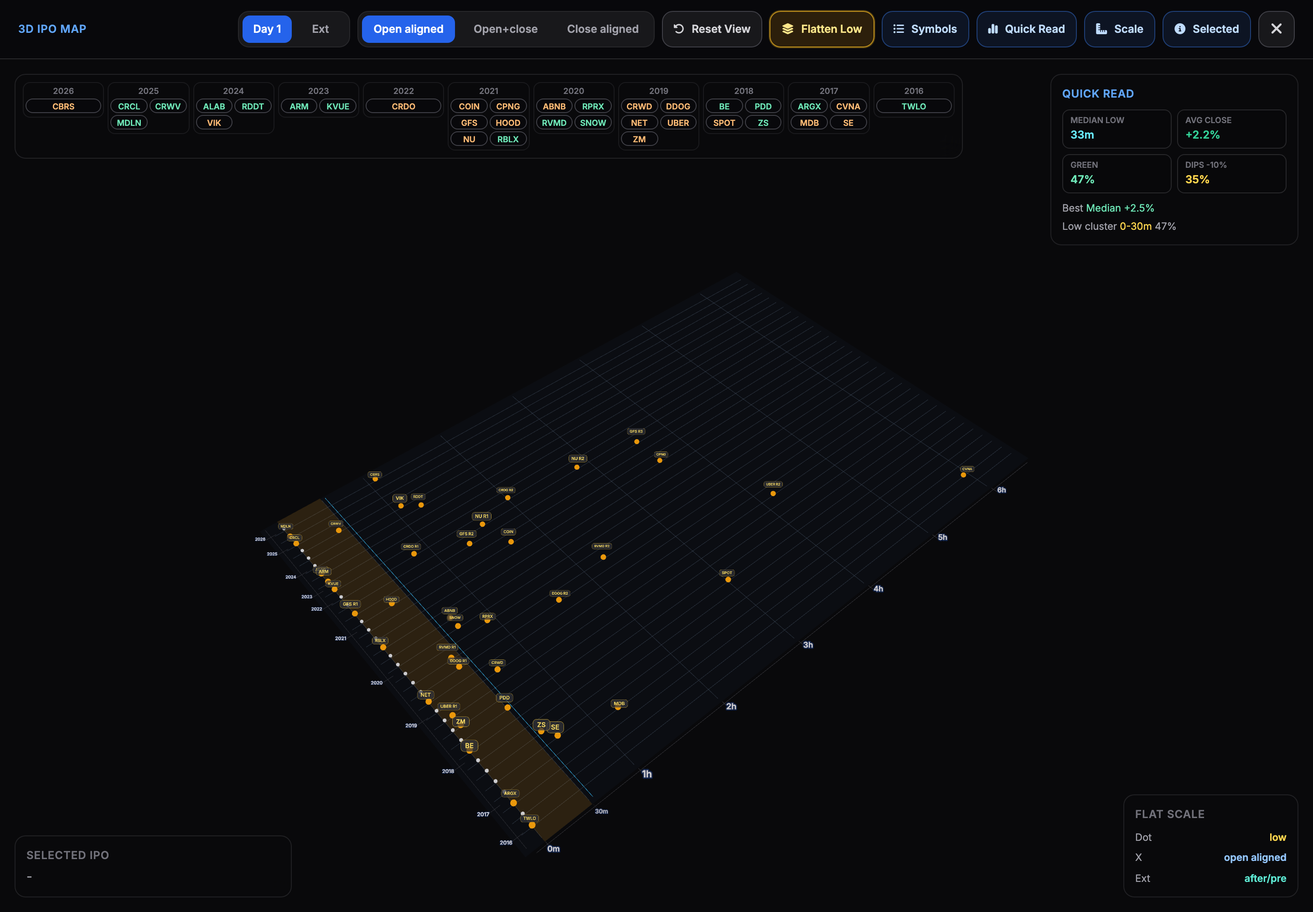
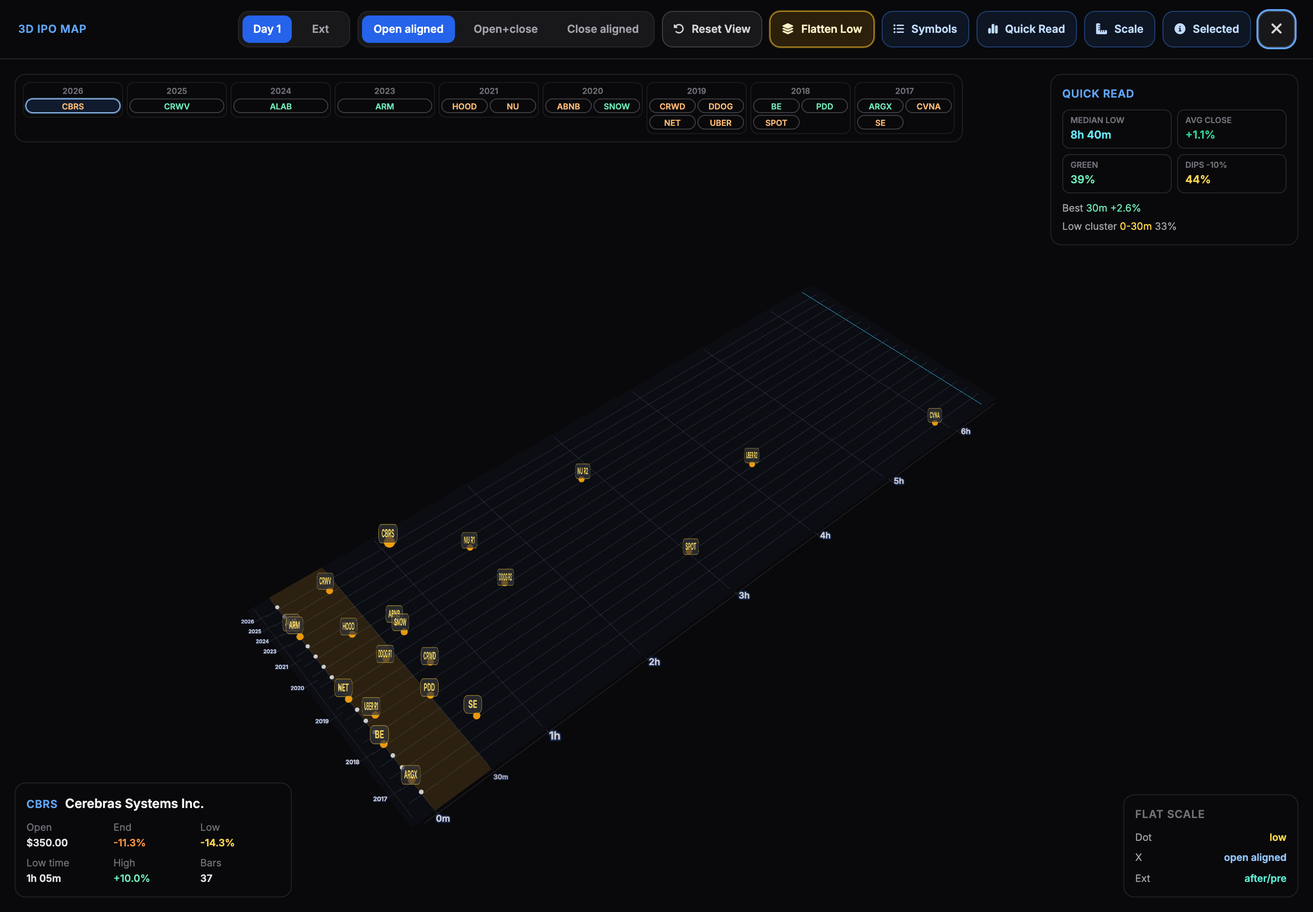
Update IPO docs and screenshots

diff --git a/AGENTS.md b/AGENTS.md
@@ -17,28 +17,28 @@ Path placeholders in this file are intentional. Substitute them with the matchin
 - Candlestick charts are inline SVG generated in browser JavaScript.
 - The 3D IPO map is a separate browser ES module in `three-ipo-view.js` and imports local Three.js from `vendor/three.module.min.js`. Keep `vendor/three.LICENSE.txt` with that module. Do not replace this with a remote charting or Three.js CDN unless explicitly requested.
 - The top analysis panel is an inline SVG/HTML decision dashboard generated in browser JavaScript from precomputed cap-filtered data in `ipo-analysis.js`.
-- The visible analysis UI starts with a buyer-window summary, key metrics, and a full-width elapsed-time opportunity map; below that it shows two larger distribution charts followed by a full-width `Decision odds` panel, then an entry-scenario comparison for buying at the open, active median timing, 30 minutes, 60 minutes, 2 hours, after-hours end, second-day premarket, and second-day open. The lower metric row includes median/common clock pills plus entry-scenario insight pills such as best day-end, safest entry, closest-to-low, and best extended entry. Do not re-add the removed `Timing signals` panel, checkpoint highlight pill, duplicate `median clock` block in the `Decision odds` header, or a trailing "not a buy signal" note unless explicitly requested.
+- The visible analysis UI starts with a buyer-window summary, decision-oriented KPI cards (`Sample`, `Typical low time`, `Buy bias`, and `Entry plan`), and a full-width elapsed-time opportunity map; below that it shows two larger distribution charts, a `Buy-plan questions` section, then an entry-scenario comparison table. The buy-plan section answers D1/D2 bias, staged buy count, allocation percentages, day-trade/swing suitability, open-chase suitability, dry-powder share, and best single fill. Do not re-add the removed `Timing signals` panel, old `Decision odds` panel, checkpoint highlight pill, duplicate `median clock` block, lower summary-pill row, or a trailing "not a buy signal" note unless explicitly requested.
 - A compact infographic strip above the search row shows the IPO playbook and IPO buy-timing guides as small thumbnails. Both thumbnails open the full-size image modal when clicked.
 - The header `Forthcoming IPOs` button opens a modal IPO-list of known upcoming listings from the StockAnalysis IPO calendar. This list is info-only and must stay excluded from timing samples, odds, charts, card filtering, and generated analysis. It shows the next 12 months of dated listings with date, symbol, company, exchange, price range, shares, deal, market cap, and revenue, plus `All` and active-cap-filter views.
 - The 3D map is opened from the analysis dashboard `3D Map` button. It supports Day 1 and Ext modes, open aligned / open+close / close aligned scaling, Reset View, Flatten Low, and hideable Symbols, Quick Read, Scale, and Selected panels. Automatic rotation is intentionally disabled.
 - The 3D symbol selector is a hideable year-clustered top strip, newest IPO years on the left and oldest on the right. Each year uses two symbol columns when needed, but a single-symbol year should use one visual row. Symbol text color matches the line's up/down tone and does not use a separate bullet.
 - In regular 3D path view, clicking a symbol pill selects it and overlays full candle bodies/wicks for that IPO; clicking the same selected symbol again isolates it into a one-row close-aligned candle view and hides other rows; clicking it again clears the selection and restores all rows. The isolated one-row view must switch to close aligned while active, restore the previous alignment when leaving, remove empty regular-session time before the first real price, normalize the return y-axis to that one IPO, and show linear 5-minute volume bars from the real bar volume field.
 - In Flatten Low view, IPO lows are placed on a flat timing mesh with symbol labels. It should keep IPO open markers in white, show near-low markers from both regular and extended windows when real lows exist, omit fake extended markers when there is no extended-hours low, support open/open+close/close alignment without rotating the camera, show time labels plus IPO-year scale on the front, and draw the selected symbol arrow only after an explicit symbol-pill click.
-- The entry-scenario comparison is calculated in browser JavaScript from the active cap/trading-place filtered exact 5-minute bars. It reports day-end result ranges, loss-contained rates under 5% and 10%, and the opportunity gap to the perfect first-day low entry.
+- The entry-scenario comparison is calculated in browser JavaScript from the active cap/trading-place filtered exact 5-minute bars plus available extended/Day 2 bars. It reports average/min/max comparisons against End D1, median entry, absolute low, End D2, and, on card-local tables, runtime Current.
 - Analysis distribution charts include dynamic median reference lines from the currently active cap and trading-place filter.
 - Main candle charts include a top elapsed-minutes axis from first public trade, bottom NYC/German clock labels, and a blue vertical median timing reference line from the currently active analysis filter. They also show a thin gray horizontal first-public-open reference line with a plain `Open` label, plus conditional horizontal IPO-price and current-price reference lines only when those prices are inside the visible chart OHLC range.
-- Each card chart has an enlarge button that opens the current Day 1 or Ext chart in a full-screen modal.
-- The header includes a top-level `Day 1` / `Ext` switch near the market and trading-place filters that changes all chart cards between first-day-only and extended chart data. Each main candle chart also has its own top switch that can show Alpaca extended-hours candles from the first-day 16:00 ET candle through the first available regular-session open candle on the second trading day, inclusive. These switches must not change card filtering or `ipo-analysis.js`; those remain based on exact first-day regular-session bars. Extended-derived card price timeline events and entry scenarios are visible independently of the chart switch when Alpaca data is available.
-- Candle charts compress spans with no candle data instead of drawing empty time across the x-axis. Visible break markers should be plain white solid vertical lines without text labels. Bottom x-axis labels stay clock-only, use only half-hour and full-hour times, and never show calendar dates. The top axis uses first-trade elapsed time during the IPO day, resets to `0m` for after-hours, and resets again to `0m` at the start of second-day premarket. Extended trading-hour candle regions should have a subtle background shade.
+- Each card chart has an enlarge button that opens the current per-card chart mode in a full-screen modal.
+- The header includes a top-level analysis-range switch near the market and trading-place filters: `Day 1`, `Ext`, and `Day 1-Day 2`. It changes the global analysis only, not per-card chart drawings. Each main candle chart has its own top switch: `D1`, `D1 Ext`, `D1 Ext D2`, `D1 D2`, and `D2`. The default card chart mode is `D1 Ext D2`.
+- Stitched candle charts must not draw empty overnight gaps across the x-axis. Bottom x-axis labels stay clock-only, use half-hour/full-hour times where space allows, and never show calendar dates. The top axis uses first-trade elapsed time during the IPO day, resets to `0m` for after-hours, resets again at the start of second-day premarket, and resets again at D2 regular open. Extended trading-hour candle regions should have a subtle background shade.
 - Visible chart source labels are compact provider markers: `(Y)` for Yahoo, `(A)` for Alpaca, and `(AV)` for Alpha Vantage. The generated `firstDayBarSources` and `extendedDayBarSources` values keep their full provider labels.
 - IPO card company names link to their Yahoo Finance quote pages.
 - IPO card header pills show market cap and, when available, deal size. Do not render the deal pill when `dealSize` is missing or non-positive.
-- IPO cards use a price-level timeline instead of the old metric pill strip. Timeline events include `IPO`, `Start`, `Low`, `Median`, `End`, `After End`, `Pre D2`, `Open D2`, and `Current*` when available, in true event-time order. `After End` is the last first-day after-hours close, `Pre D2` is the first second-trading-day premarket open, and `Open D2` is the first regular-session opening print on the second trading day. Do not re-add `Market cap` or `Deal size` to the price row because those values belong in the header pills.
-- IPO cards include five micro charts below the price timeline: IPO price to first-day close, first-day start price to first-day end price, first-day low to first-day end price, first-day start price to Day-two, and first-day close to current* snapshot price. First-day micro-chart paths use exact 5-minute closes. The Day-two micro chart extends the exact first-day path with generated extended-session milestones when available. Longer current* paths use sampled rough Yahoo weekly closes from `roughPriceSeries` when available, with endpoint fallback.
-- IPO cards show entry-scenario panels below the five micro charts for open, median, 30m, 60m, 2h, after-hours end, second-day premarket, and second-day open entries when available. First-day panels use `End of day`; extended-entry panels use `Vs day end` because those entries occur after the first-day close. All panels keep separate `Gap to median` and `Gap to low` lines. Omit unavailable scenario cards instead of rendering empty dash-only blocks. Do not add entry time or entry price to these controls unless explicitly requested.
+- IPO cards use a price-level timeline instead of the old metric pill strip. Timeline events include `IPO`, `Start`, `Low`, `Median`, `End`, `After End`, `Pre D2`, `Open D2`, `End D2`, and `Current` when available, in true event-time order. `After End` is the last first-day after-hours close, `Pre D2` is the first second-trading-day premarket open, `Open D2` is the first regular-session opening print on the second trading day, and `End D2` is the final available second-day regular-session close. Do not re-add `Market cap` or `Deal size` to the price row because those values belong in the header pills.
+- IPO cards include six micro charts below the price timeline: IPO to D1 close, D1 start to D1 close, D1 low to D1 close, start price to open D2, D1 close to Current, and D2 close to Current. First-day micro-chart paths use exact 5-minute closes. The Day-two micro chart extends the exact first-day path with generated extended-session and second-day milestones when available. Longer Current paths use sampled rough Yahoo weekly closes from `roughPriceSeries` when available, with endpoint fallback.
+- IPO cards show an entry-scenario table below the micro charts for open, median, 30m, 60m, after-hours end, second-day premarket, second-day open, and second-day end entries when available. The table rows are `Vs End D1`, `Gap to median`, `Gap to low`, `Vs End D2`, and card-local `Vs Current`. `Gap to low` uses the absolute low over available D1/Ext/D2 candles. The `End D2` column shows `-` in the `Vs End D2` row. Omit unavailable scenario columns instead of rendering empty dash-only blocks. Do not add entry time or entry price to these controls unless explicitly requested.
 - IPO cards do not render the generated IPO-to-current `dayChange` value. Do not re-add the top return pill or the `IPO return` metric unless explicitly requested.
 - Main candle charts can show multiple low markers. The markers must be selected from the same near-low price range and every pair of selected marker times must be at least one hour apart.
-- The market-cap and trading-place segmented filters sit in the header above the analysis panel so they control both the probability analysis and the card list. The default cap filter is `>$25B`; other cap options are `<$10B`, all (`*`), `>$10B`, and `>$50B`. The default trading-place filter is `All`; other options are `NASDAQ` and `NYSE`.
+- The market-cap and trading-place segmented filters sit in the header above the analysis panel so they control both the analysis and the card list. The default cap filter is `>$50B`; other cap options are `<$10B`, all (`*`), `>$10B`, and `>$25B`. The default trading-place filter is `All`; other options are `NASDAQ` and `NYSE`.
 - The card toolbar below the analysis keeps only search plus the Date/Cap sort toggle.
 - Do not reintroduce charting CDNs unless explicitly requested. Earlier chart-library attempts rendered blank in production.
 - The chart path only draws real first-trading-day 5-minute OHLCV bars from `chart-data.js`. Suppress cards without exact bars; do not reintroduce daily-OHLC estimates or synthetic fallback charts unless explicitly requested.
@@ -47,14 +47,17 @@ Path placeholders in this file are intentional. Substitute them with the matchin
 
 ## Data Model
 
-The page has three generated JavaScript data files:
+The page has three generated JavaScript data files plus one runtime quote cache:
 
 - `ipos` in `ipo-data.js`: one object per IPO candidate/card; the page renders only entries with exact `firstDayBars`.
 - `firstDayBars` in `chart-data.js`: optional real first-trading-day 5-minute OHLCV bars keyed by ticker.
 - `firstDayBarSources` in `chart-data.js`: per-ticker provider labels such as `Yahoo 5m bars`, `Alpaca SIP 5m bars`, or `Alpha Vantage 5m bars`.
-- `extendedDayBars` in `chart-data.js`: optional Alpaca 5-minute OHLCV bars after the first-day close through the first regular-session opening candle on the next trading day, keyed by ticker.
+- `extendedDayBars` in `chart-data.js`: optional Alpaca 5-minute OHLCV bars for first-day after-hours and next-day premarket/open handoff rows, keyed by ticker.
 - `extendedDayBarSources` in `chart-data.js`: per-ticker provider labels such as `Alpaca SIP extended 5m bars`.
+- `secondDayBars` in `chart-data.js`: optional Alpaca 5-minute OHLCV bars for the second regular trading day, keyed by ticker.
+- `secondDayBarSources` in `chart-data.js`: per-ticker provider labels such as `Alpaca SIP second-day 5m bars`.
 - `roughPriceSeries` in `chart-data.js`: optional sampled Yahoo weekly close rows keyed by ticker for rough long-range micro-chart paths.
+- `current-price-cache.json`: bundled Yahoo current-price cache used as a browser runtime seed before fresh Yahoo proxy quotes arrive.
 - `ipoAnalysis` in `ipo-analysis.js`: derived 15-year first-day low timing analysis, probability checkpoints, and timing insights precomputed for each cap and trading-place filter.
 
 IPO object fields:
@@ -65,7 +68,7 @@ IPO object fields:
 - `exchange`
 - `sector`
 - `ipoPrice` - offer price in USD
-- `current` - latest quote price refreshed from Yahoo Finance chart metadata when available; StockAnalysis price remains the fallback. Visible UI labels this as `Current*` because the static page shows a snapshot, not a live quote.
+- `current` - latest quote price refreshed from Yahoo Finance chart metadata when available; StockAnalysis price remains the fallback. Browser JavaScript refreshes this again at runtime through the Yahoo proxy and labels it as `Current`.
 - `currentAsOf`, `currentSource`, `currentCurrency` - quote provenance for `current`
 - `marketCap` - billions USD
 - `dealSize` - millions USD raised
@@ -82,6 +85,12 @@ IPO object fields:
 
 ```js
 ["2026-05-15 16:05", open, high, low, close, volume]
+```
+
+`secondDayBars` row format:
+
+```js
+["2026-05-16 09:30", open, high, low, close, volume]
 ```
 
 `roughPriceSeries` row format:
@@ -101,7 +110,7 @@ IPO object fields:
 
 ## Data Gathering Method
 
-The last full refresh was done on 2026-05-26. Alpaca extended-hours candle data was added on 2026-05-27.
+The last full refresh was done on 2026-05-31. Alpaca extended-hours and second-day candle data were added by the 2026-05-31 refresh. Runtime current-price refreshes are handled in browser JavaScript through the Yahoo proxy.
 
 Primary candidate source:
 
@@ -118,7 +127,7 @@ Per-ticker detail source:
 - `https://stockanalysis.com/stocks/<ticker>/`
 - `https://stockanalysis.com/stocks/<ticker>/company/`
 - Pull or verify market cap, IPO price/date, exchange, sector/industry, and related company fields from the StockAnalysis ticker pages when available.
-- Refresh the displayed current* snapshot price from Yahoo Finance latest chart metadata during data generation; if Yahoo is unavailable for a ticker, keep the StockAnalysis fallback value.
+- Refresh the generated current snapshot price from Yahoo Finance latest chart metadata during data generation; if Yahoo is unavailable for a ticker, keep the StockAnalysis fallback value. Browser runtime code refreshes Current again through the Yahoo proxy and caches results in `localStorage`.
 - When adding a new symbol or refreshing symbol data, update the public data snapshot date in the footer of `index.html` so the visible freshness term matches the data actually shown.
 - Fetch sampled Yahoo weekly closes for `roughPriceSeries`; these are only used for small micro-chart shape hints, not for main candle charts or low-timing analysis.
 - For `CBRS`, also checked Cerebras' own IPO pricing release:
@@ -131,7 +140,7 @@ Upcoming IPO-list source:
   `https://r.jina.ai/http://https://stockanalysis.com/ipos/calendar/`
 - Parsed rows are cached in `localStorage` under `ipo-upcoming-calendar-v1` with a 24-hour retry/freshness window.
 - Only dated rows in the next 12 months are shown. The modal can show all upcoming rows or rows matching the active market-cap filter.
-- Upcoming rows must remain informational only. Do not feed them into `ipos`, `ipoAnalysis`, first-day timing samples, chart cards, or decision odds.
+- Upcoming rows must remain informational only. Do not feed them into `ipos`, `ipoAnalysis`, timing samples, chart cards, buy-plan questions, or entry-scenario analysis.
 
 Intraday candle source:
 
@@ -140,7 +149,8 @@ Intraday candle source:
 - Alpaca market data historical stock bars are used as the primary fallback when paper/data credentials are available from `APCA_API_KEY_ID` plus `APCA_API_SECRET_KEY`, or compatible `ALPACA_*` names.
 - Alpaca bars endpoint example:
   `https://data.alpaca.markets/v2/stocks/bars?symbols=ARM&timeframe=5Min&start=<rfc3339>&end=<rfc3339>&adjustment=raw&feed=sip`
-- Alpaca is also used for optional extended-hours chart data. Fetch from the first trading date at 16:00 ET through the first regular-session opening candle on the next trading day, inclusive, and store those rows in `extendedDayBars` with `YYYY-MM-DD HH:MM` New York timestamps.
+- Alpaca is also used for optional extended-hours and second-day chart data. Fetch extended bars from the first trading date at 16:00 ET through the next premarket/open handoff as available and store those rows in `extendedDayBars` with `YYYY-MM-DD HH:MM` New York timestamps. Fetch the second regular trading day into `secondDayBars`, including the regular-session close when available.
+- One-minute candle experiments live in the ignored local `1m/` folder. Keep both the gathering script and generated 1-minute JSON there unless the user explicitly asks to publish them.
 - Never commit Alpaca or Alpha Vantage keys. Alpaca keys are sent only as request headers; generated source comments must not include credentials. Alpha Vantage generated source comments must keep the `apikey` redacted.
 - Alpha Vantage `TIME_SERIES_INTRADAY` remains an optional fallback when a key is available from `ALPHAVANTAGE_KEY`, `ALPHAVANTAGE_API_KEY`, `ALPHA_VANTAGE_API_KEY`, or `AV_API_KEY`.
 - Historical Alpha Vantage intraday month data requires a premium-enabled key; if the current key returns a premium-endpoint message, the script disables the fallback for the rest of that refresh.
@@ -217,7 +227,7 @@ The site repo is Git-backed and pushes to GitHub. The live `https://glaubi.net/i
 ```sh
 cd <local-ipo-site-repo>
 git status --short
-git add index.html three-ipo-view.js vendor/three.module.min.js vendor/three.LICENSE.txt ipo-data.js chart-data.js ipo-analysis.js refresh_ipo_data.py build_ipo_analysis.py AGENTS.md README.md LICENSE docs/*.png
+git add .gitignore index.html three-ipo-view.js vendor/three.module.min.js vendor/three.LICENSE.txt ipo-data.js chart-data.js current-price-cache.json ipo-analysis.js refresh_ipo_data.py build_ipo_analysis.py AGENTS.md README.md LICENSE docs/*.png
 git commit -m "Update IPO site"
 git push
 ```
@@ -300,19 +310,18 @@ Before calling an IPO change done:
 - `index.html` still renders without a build step.
 - `ipo-data.js` includes `$5B+` IPO candidates from the cap screener plus all post-2020 `$5B+` IPO archive matches.
 - `ipo-analysis.js` is generated from `build_ipo_analysis.py` and contains precomputed `byCap` plus `byFilter` analyses for all cap and trading-place filters.
-- The header cap and trading-place filters sit above the analysis and change both the rendered probabilities and the rendered card list.
-- The top analysis panel shows both elapsed-time delta and US/Eastern clock-time distributions for exact first-day 5-minute lows, with the elapsed-time opportunity map using the full panel width.
+- The header cap, trading-place, and analysis-range filters sit above the analysis and change the rendered analysis and card list appropriately.
+- The top analysis panel shows decision-oriented KPI cards, elapsed-time/candle-time distribution, and US/Eastern plus German clock/session distribution for the active analysis range, with the elapsed-time opportunity map using the full panel width.
 - The compact infographic strip above search shows both the IPO playbook and buy-timing thumbnails, and both open the full-size image modal.
-- The analysis panel shows a full-width `Decision odds` panel below the bar charts, without the removed `Timing signals` panel, checkpoint highlight pill, duplicate median-clock header block, or generic disclaimer row.
-- The analysis panel shows the entry-scenario comparison after `Decision odds`, including open, median, 30m, 60m, 2h, after-hours end, second-day premarket, and second-day open scenarios with wrapping text that is not clipped.
-- The lower analysis metric row shows median clock, most common clock, late-low, current-view, and entry-scenario insight pills.
+- The analysis panel shows `Buy-plan questions` below the bar charts, without the removed `Decision odds`, `Timing signals`, checkpoint highlight pill, duplicate median-clock header block, lower summary-pill row, or generic disclaimer row.
+- The analysis panel shows the global entry-scenario comparison after `Buy-plan questions`, including open, median, 30m, 60m, after-hours end, second-day premarket, second-day open, and second-day end scenarios with wrapping text that is not clipped. The global table omits `Vs Current`.
 - Analysis charts show dynamic median reference lines for the active filter.
 - Clock-time chart labels use 24-hour NYC and German labels, not AM/PM labels. Two-line labels are allowed, and the market-clock distribution chart omits trailing `(DE)` on German axis labels.
 - No included IPO has a known `firstDay.open` below `$1`.
 - `CBRS` is present and its chart uses real Yahoo 5-minute bars and does not begin at `$185`.
 - Main candle charts show the top elapsed-minutes axis, active-filter median timing line, compact provider marker, thin gray open-price reference line, compressed no-candle gap markers when needed, and only show IPO-price/current-price horizontal reference lines when those values are within that chart's visible OHLC range.
 - Each card chart enlarge button opens a full-screen chart modal using the same chart data mode currently active for that card.
-- The global chart-mode switch and card-level chart switches toggle Alpaca extended-hours chart display without changing search/filter behavior or generated analysis; card-level extended price timeline events and extended entry panels use the generated Alpaca data directly.
+- The global `Day 1` / `Ext` / `Day 1-Day 2` switch changes the analysis range. Card-level `D1` / `D1 Ext` / `D1 Ext D2` / `D1 D2` / `D2` switches change chart drawings without changing search/filter behavior. Card-level extended and Day 2 price timeline events and entry scenario columns use generated Alpaca data directly.
 - Low markers on main candle charts are in the same near-low price band and are spaced at least one hour apart.
 - The `Forthcoming IPOs` modal opens from the header, renders the StockAnalysis-derived IPO-list or a clear unavailable/empty state, keeps rows info-only, and updates when switching between `All` and the active cap filter.
 - The 3D map opens from the analysis panel, loads local `vendor/three.module.min.js`, and renders without a blank WebGL canvas.
@@ -320,14 +329,14 @@ Before calling an IPO change done:
 - In regular 3D path view, symbol selection shows candle bodies/wicks for the selected IPO; a second click isolates that IPO into the one-row candle view; a third click clears isolation and selection.
 - The isolated one-row 3D render is close-aligned while active, restores the prior alignment when leaving, removes empty time before the first real price, uses the selected IPO's own return range, and shows linear 5-minute volume bars.
 - Flatten Low view shows the flat low mesh, time labels, IPO-year scale, white IPO-open markers, real regular and extended near-low markers, no fake extended marker at the start of the extended session, and stable camera orientation when changing Day 1/Ext or alignment.
-- IPO cards link company names to Yahoo Finance quote pages, show cap/deal header pills, and use the price-level timeline for `IPO`, `Start`, `Low`, `Median`, `End`, `After End`, `Pre D2`, `Open D2`, and `Current*` events when available.
-- IPO cards show entry-scenario panels below the five micro charts, with first-day scenarios (`Open`, `Median`, `30m`, `60m`, `2h`) plus extended scenarios (`After`, `Pre D2`, `Open D2`), and without entry time or entry price in those controls.
+- IPO cards link company names to Yahoo Finance quote pages, show cap/deal header pills, and use the price-level timeline for `IPO`, `Start`, `Low`, `Median`, `End`, `After End`, `Pre D2`, `Open D2`, `End D2`, and `Current` events when available.
+- IPO cards show an entry-scenario table below the six micro charts, with first-day scenarios (`Open`, `Median`, `30m`, `60m`) plus extended/Day 2 scenarios (`After`, `Pre D2`, `Open D2`, `End D2`). `Vs Current` is present only in card-local tables, separated with a dashed row line.
 - IPO cards do not show `IPO return`, `Return —`, generated `dayChange`, `Market cap`, or `Deal size` in the price timeline or entry controls.
 - Missing exact 5-minute bars are suppressed from the card list, not rendered as estimated charts.
 - Search filters cards by ticker/company/exchange/sector.
 - Sort button toggles between IPO date recent-first and market cap biggest-first.
-- Micro-chart lines use rough real paths: exact 5-minute closes for first-day cards, exact first-day closes plus extended-session milestones for the Start-to-Day-two card, and sampled Yahoo weekly closes from `roughPriceSeries` for current* cards when available.
-- Cap filter defaults to `>$25B` and can switch to `<$10B`, all (`*`), `>$10B`, and `>$50B`.
+- Micro-chart lines use rough real paths: exact 5-minute closes for first-day cards, exact first-day closes plus extended/Day 2 milestones for the Start-to-open-D2 card, and sampled Yahoo weekly closes from `roughPriceSeries` for Current cards when available.
+- Cap filter defaults to `>$50B` and can switch to `<$10B`, all (`*`), `>$10B`, and `>$25B`.
 - Trading-place filter defaults to `All` and can switch to `NASDAQ` or `NYSE`.
 - Inline JavaScript syntax still passes, for example:
   `perl -0ne 'while(/<script>(.*?)<\/script>/sg){print $1}' index.html > /tmp/ipo-inline.js && node --check /tmp/ipo-inline.js`

diff --git a/README.md b/README.md
@@ -2,9 +2,9 @@
 
 Static first-day IPO chart page for `https://glaubi.net/ipo`.
 
-The site shows large IPO companies as full-width cards only when exact 5-minute IPO-day bars are available, plus a top buying-decision dashboard built from those exact bars. The header market-cap filter defaults to `>$25B`, the trading-place filter defaults to `All`, and both switch the card list plus the probability analysis. A top `Day 1` / `Ext` switch changes all visible charts between first-day-only candles and available Alpaca extended-hours candles, while card-level switches can override individual charts. Each card links the company name to its Yahoo Finance quote page, shows cap plus deal-size pills in the header when available, and uses an ordered price-level timeline for IPO/start/low/median/end, extended after/pre/open prices, and current* snapshot price. Cards intentionally do not show the ambiguous generated IPO-to-current return field.
+The site shows large IPO companies as full-width cards only when exact 5-minute IPO-day bars are available, plus a top buying-decision dashboard built from exact Day 1, extended-hours, and Day 2 candles where available. The header market-cap filter defaults to `>$50B`, the trading-place filter defaults to `All`, and both switch the card list plus the analysis. The global analysis range defaults to `Day 1-Day 2`; card charts default to `D1 Ext D2` and can be switched per card between `D1`, `D1 Ext`, `D1 Ext D2`, `D1 D2`, and `D2`. Each card links the company name to its Yahoo Finance quote page, shows cap plus deal-size pills in the header when available, and uses an ordered price-level timeline for IPO/start/low/median/end, after-hours, pre-D2, open-D2, end-D2, and current runtime price events. Cards intentionally do not show the ambiguous generated IPO-to-current return field.
 
-Each card also includes five micro charts comparing IPO price, first-day start, first-day low, first-day close, Day-two, and current* snapshot price. Micro-chart lines use exact IPO-day 5-minute closes where possible, extended-session milestones for the Day-two path, and sampled Yahoo weekly closes for rough longer-term current* paths. Entry-scenario panels compare buying at the open, active median timing, 30 minutes, 60 minutes, 2 hours, after-hours end, second-day premarket, and second-day open, with separate day-end, gap-to-median, and gap-to-low results.
+Each card also includes six micro charts comparing IPO price, D1 start, D1 low, D1 close, open D2, D2 close, and current runtime price. Micro-chart lines use exact IPO-day 5-minute closes where possible, extended/Day 2 milestones for the Day-two path, and sampled Yahoo weekly closes for rough longer-term current paths. Entry-scenario tables compare buying at the open, active median timing, 30 minutes, 60 minutes, after-hours end, second-day premarket, second-day open, and second-day end. Rows compare each buy against End D1, the median entry, the absolute low across available D1/Ext/D2 candles, End D2, and, on card-local tables only, Current. Scenario border color ranks the entries by absolute `Vs Current` opportunity.
 
 The dashboard also opens a Three.js `3D Map` view from the analysis panel. It renders filtered IPO paths, a hideable year-clustered symbol list, Day 1/Ext modes, open/open+close/close alignment modes, hideable Quick Read/Scale/Selected panels, selected-symbol candles, an isolated one-row candle view with normalized return scale and linear 5-minute volume bars, and a `Flatten Low` mesh that places low markers on a comparable timing plane.
 
@@ -31,11 +31,13 @@ The header `Forthcoming IPOs` button opens an info-only IPO-list modal from the 
 - `index.html` - static page, styles, decision dashboard, chart renderer, filters, search, and sort toggle.
 - `three-ipo-view.js` - Three.js IPO map renderer, symbol selection, isolated candle view, flattened low mesh, and 3D controls.
 - `ipo-data.js` - generated IPO card metadata.
-- `chart-data.js` - generated exact 5-minute first-day bars, optional Alpaca extended-hours bars, and sampled rough weekly close paths where available.
-- `ipo-analysis.js` - generated 15-year low-timing analysis, decision odds, and timing insights, precomputed per cap and trading-place filter.
+- `chart-data.js` - generated exact 5-minute first-day bars, optional Alpaca extended-hours bars, optional Alpaca Day 2 bars, and sampled rough weekly close paths where available.
+- `current-price-cache.json` - bundled Yahoo current-price cache used as a fast runtime seed before browser-side quote refreshes.
+- `ipo-analysis.js` - generated 15-year low-timing analysis and timing insights, precomputed per cap and trading-place filter.
 - `refresh_ipo_data.py` - refreshes IPO metadata, chart data, and analysis.
 - `build_ipo_analysis.py` - rebuilds only `ipo-analysis.js` from existing generated data.
 - `vendor/three.module.min.js` - local Three.js module used by the 3D map; no charting CDN is required for the map.
+- `1m/` - ignored local scratch folder for 1-minute candle gathering scripts and JSON data.
 
 ## Run Locally
 
@@ -51,13 +53,15 @@ Open `http://localhost:8080`.
 python3 refresh_ipo_data.py --threshold-b 5 --limit 500 --candidate-limit 1000
 ```
 
-The refresh uses StockAnalysis for IPO metadata, Yahoo Finance chart endpoints for latest quote prices, rough weekly mini-chart history, and first-day OHLCV data, and Alpaca market data as the main exact intraday fallback when paper/data credentials are available through `APCA_API_KEY_ID` plus `APCA_API_SECRET_KEY` or compatible `ALPACA_*` env vars. Alpaca also provides optional extended-hours chart data from the first-day close through the next regular-session opening candle. Candle charts use only exact 5-minute rows in `chart-data.js`; missing exact bars are suppressed rather than estimated.
+The refresh uses StockAnalysis for IPO metadata, Yahoo Finance chart endpoints for latest quote prices, rough weekly mini-chart history, and first-day OHLCV data, and Alpaca market data as the main exact intraday fallback when paper/data credentials are available through `APCA_API_KEY_ID` plus `APCA_API_SECRET_KEY` or compatible `ALPACA_*` env vars. Alpaca also provides optional extended-hours and Day 2 chart data. Candle charts use only exact 5-minute rows in `chart-data.js`; missing exact bars are suppressed rather than estimated.
 
 API keys are read only from the environment and must not be committed. Alpaca credentials are sent only in request headers. Alpha Vantage remains an optional fallback, but historical intraday month requests require a premium-enabled Alpha Vantage key.
 
-Clock-time analysis is shown with dual 24-hour labels in `HH:MM (DE HH:MM)` format, or as two lines where space is tight, converted with daylight-saving rules. The visible analysis UI has a buyer-window summary, metric cards, a full-width elapsed-time opportunity map, two larger distribution charts with dynamic median reference lines, a full-width `Decision odds` section, an entry-scenario comparison for all eight entry scenarios, and summary pills for median clock, common clock, late lows, current filter, and scenario highlights. A compact two-thumbnail infographic strip above search opens the playbook and buy-timing guides. The low-timing dashboard comes from `ipo-analysis.js`; entry-scenario comparisons are calculated in the browser from the active filtered exact bars.
+Current prices are refreshed at runtime in TypeScript/browser JavaScript through the Yahoo proxy route and cached in `localStorage`; generated `current` values and `current-price-cache.json` remain fallbacks. The live site depends on the Cloudflare Worker proxy for `/ipo/api/yahoo/...`; local testing uses `http://localhost:8787/ipo/api/yahoo` when the proxy dev server is running.
 
-Main candle charts show only real 5-minute bars. First-day charts include a top elapsed-minutes axis from the first public trade, bottom NYC/German clock labels, the active-filter median timing reference line, the first public open reference line, the first-day low reference, and conditional IPO-price/current-price horizontal reference lines only when those prices fall inside the visible OHLC range. Extended charts add shaded extended-hours backgrounds, a single solid white overnight break, first-day after-hours elapsed labels, and second-day premarket elapsed labels that restart at `0m`. Each card chart has an enlarge button that opens the current chart in a full-screen modal. Missing intraday spans are expected and are compressed instead of drawn as empty time. Low markers are selected from the same near-low price band and are spaced at least one hour apart so late retests are visible without labeling every adjacent candle. Visible candle source labels are compact provider markers such as `(Y)` for Yahoo and `(A)` for Alpaca.
+Clock-time analysis is shown with dual 24-hour labels in `HH:MM (DE HH:MM)` format, or as two lines where space is tight, converted with daylight-saving rules. The visible analysis UI has a buyer-window summary, decision-oriented KPI cards (`Sample`, `Typical low time`, `Buy bias`, `Entry plan`), a full-width elapsed-time opportunity map, two larger distribution charts with dynamic median reference lines, a `Buy-plan questions` section, and an entry-scenario comparison table. A compact two-thumbnail infographic strip above search opens the playbook and buy-timing guides. The low-timing dashboard comes from `ipo-analysis.js`; entry-scenario comparisons are calculated in the browser from the active filtered exact bars and runtime current prices.
+
+Main candle charts show only real 5-minute bars. First-day charts include a top elapsed-minutes axis from the first public trade, bottom NYC/German clock labels, the active-filter median timing reference line, the first public open reference line, the low reference, and conditional IPO-price/current-price horizontal reference lines only when those prices fall inside the visible OHLC range. Stitched D1/Ext/D2 charts shade extended-hours regions, restart the top elapsed axis at `0m` for after-hours, premarket, and D2 regular-session segments, and do not draw empty overnight time across the x-axis. Each card chart has an enlarge button that opens the current chart in a full-screen modal. Low markers are selected from the same near-low price band and are spaced at least one hour apart so late retests are visible without labeling every adjacent candle. Visible candle source labels are compact provider markers such as `(Y)` for Yahoo and `(A)` for Alpaca.
 
 To rebuild only the derived analysis:
 
@@ -73,14 +77,14 @@ perl -0ne 'while(/<script>(.*?)<\/script>/sg){print $1}' index.html > /tmp/ipo-i
 node --input-type=module --check < three-ipo-view.js
 ```
 
-For visual QA, serve the page locally and check that the header cap and trading-place filters change the `Sample`, `Decision odds`, median markers, entry-scenario analysis, scenario insight pills, and card count together. Also check the compact timing/playbook infographic thumbnails and modals, search, sort toggle, chart enlarge modal, the `CBRS` Yahoo chart, rough-path micro charts, card entry-scenario controls, the Yahoo Finance company-name links, and at least one Alpaca-sourced chart such as `ARM`. In main candle charts, verify the top elapsed-minutes axis, compact provider marker, blue median timing line, gray open reference line, and confirm IPO/current price reference lines appear only when in range. Toggle the global `Ext` control and one card-level switch to verify extended candles, shaded extended-hours regions, and the white overnight break. Open the `3D Map`, check the year-clustered symbol pills, selected-symbol candles, isolated one-row candle/volume view, `Flatten Low` mesh, alignment controls, reset behavior, and hideable info panels. Open `Forthcoming IPOs` and confirm the info-only list renders, links to StockAnalysis, and respects the all/cap-filter toggle.
+For visual QA, serve the page locally and check that the header cap, trading-place, and analysis-range filters change the `Sample`, KPI cards, distribution charts, buy-plan questions, global entry-scenario analysis, and card count together. Also check the compact timing/playbook infographic thumbnails and modals, search, sort toggle, load-more button, chart enlarge modal, the `CBRS` chart, rough-path micro charts, card entry-scenario tables, the Yahoo Finance company-name links, and at least one Alpaca-sourced chart such as `CRWV` or `CBRS`. In main candle charts, verify the top elapsed axis, bottom NYC/German clock labels, compact provider marker, blue median timing line, gray open reference line, and confirm IPO/current price reference lines appear only when in range. Toggle card-level chart modes for `D1`, `D1 Ext`, `D1 Ext D2`, `D1 D2`, and `D2` to verify stitched candles, shaded extended-hours regions, restored bottom time labels, and D2 low labels. Open the `3D Map`, check the year-clustered symbol pills, selected-symbol candles, isolated one-row candle/volume view, `Flatten Low` mesh, alignment controls, reset behavior, and hideable info panels. Open `Forthcoming IPOs` and confirm the info-only list renders, links to StockAnalysis, and respects the all/cap-filter toggle.
 
 ## Deploy
 
 This repo is pushed to GitHub at `https://github.com/robertZaufall/ipo`. The public route `https://glaubi.net/ipo` is served by the Cloudflare Worker in `<local-ipo-proxy-repo>`, which fetches the static files from GitHub raw `main` and injects `<base href="/ipo/">`.
 
 ```sh
-git add index.html three-ipo-view.js vendor/three.module.min.js vendor/three.LICENSE.txt ipo-data.js chart-data.js ipo-analysis.js refresh_ipo_data.py build_ipo_analysis.py README.md LICENSE AGENTS.md docs/*.png
+git add .gitignore index.html three-ipo-view.js vendor/three.module.min.js vendor/three.LICENSE.txt ipo-data.js chart-data.js current-price-cache.json ipo-analysis.js refresh_ipo_data.py build_ipo_analysis.py README.md LICENSE AGENTS.md docs/*.png
 git commit -m "Update IPO site"
 git push
 ```
